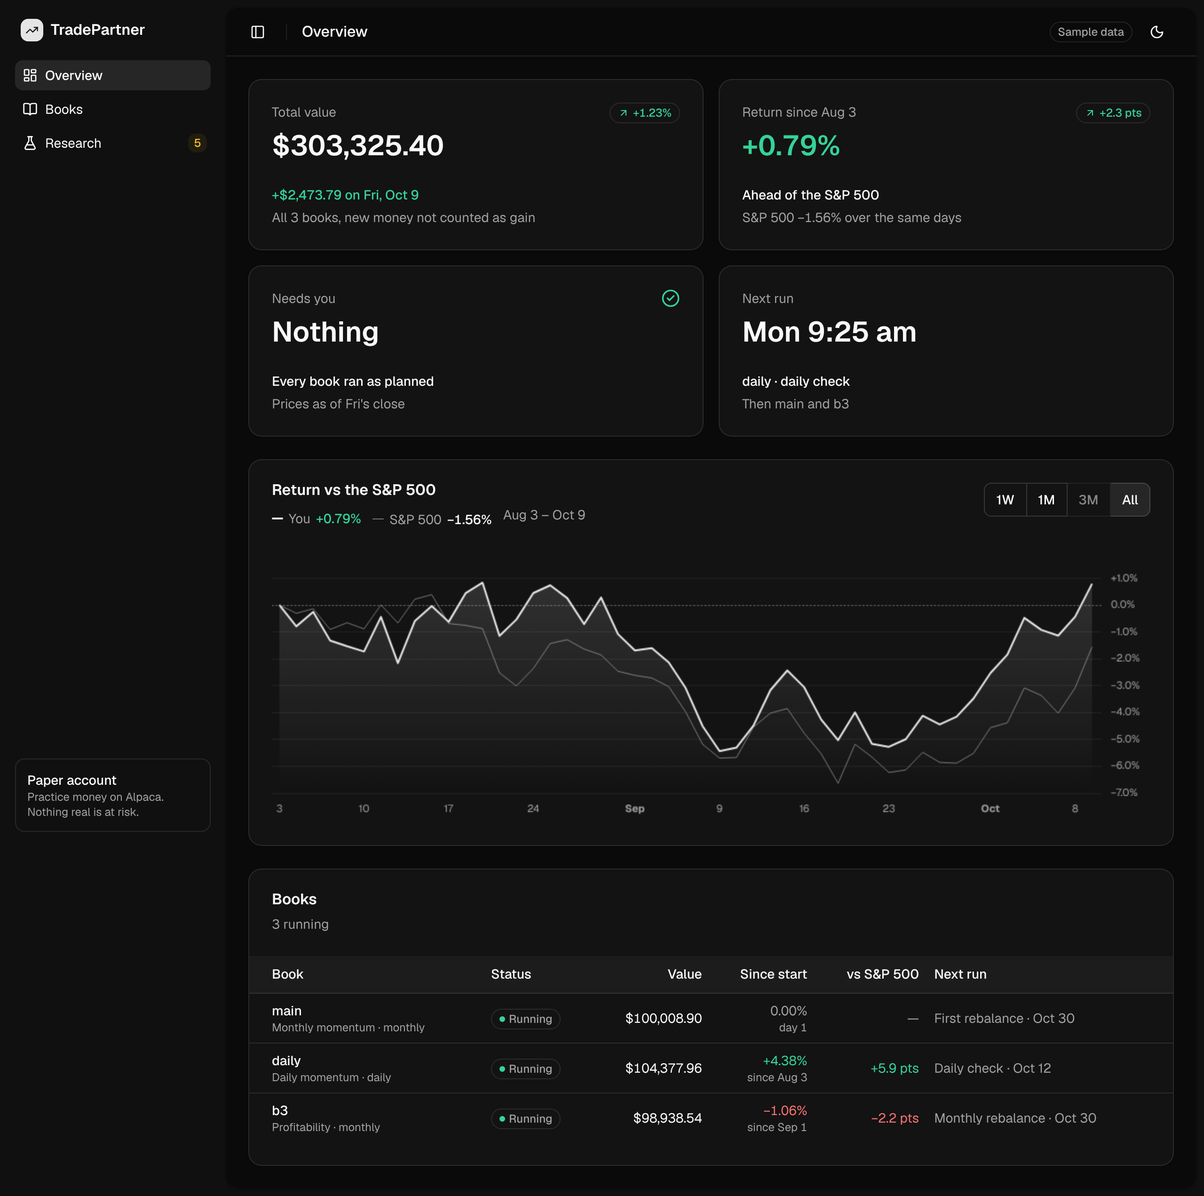
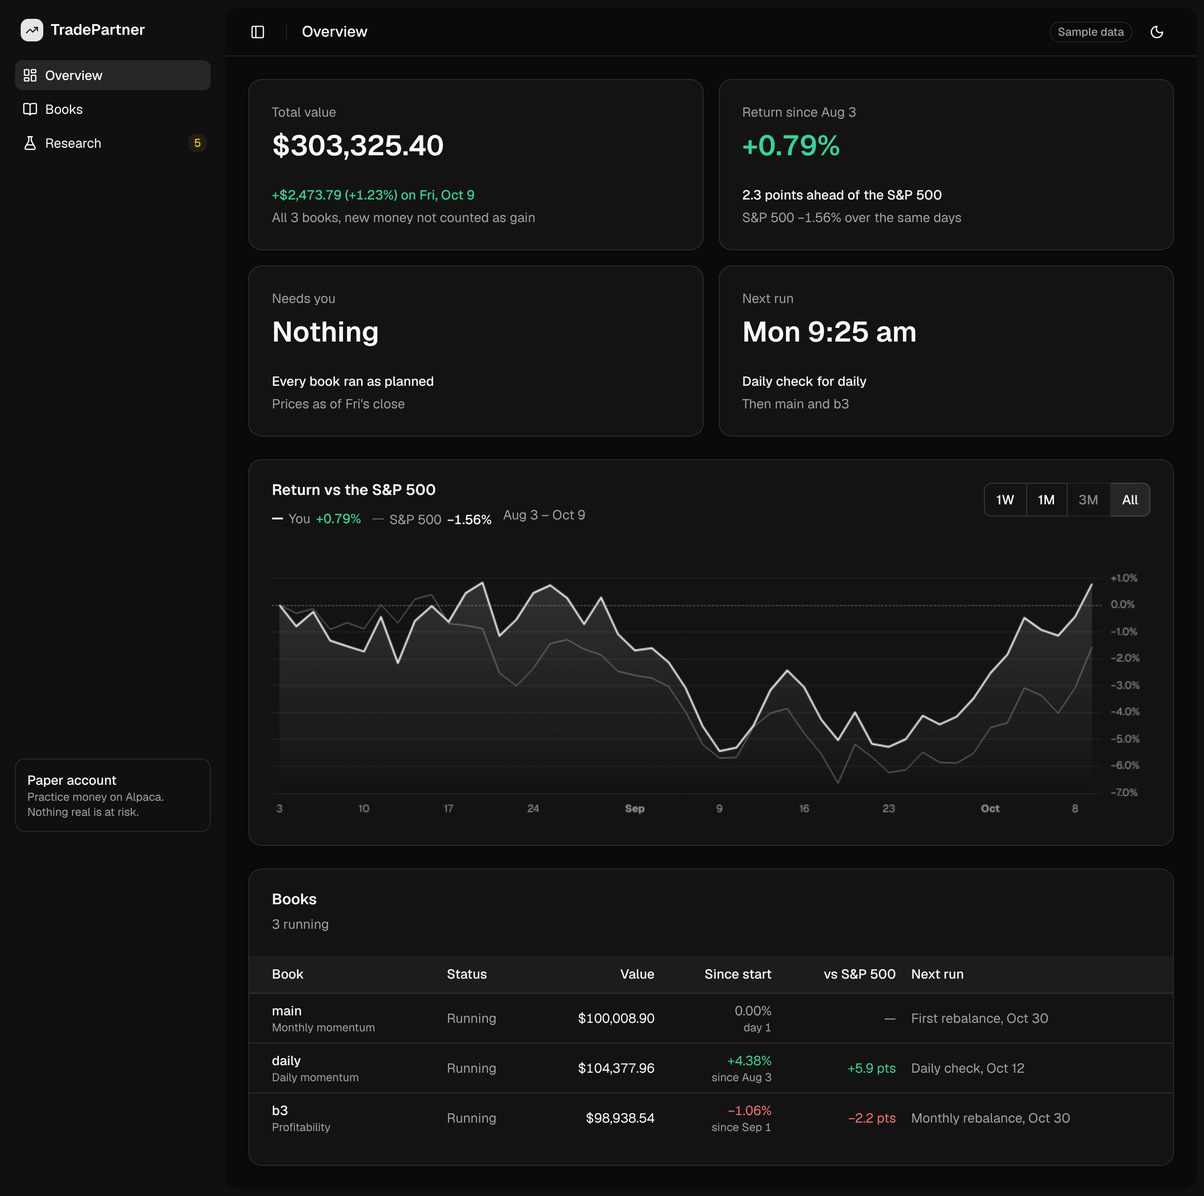
spike(ui): say it once, and words instead of colour bars
Waiting items state the action once (no code badge, no repeated next step);
evidence and luck are words with counts; idea codes appear once as a
reference; Overview cards drop badges and icons that repeated their text.
Both rules added to the AI-tells checklist.

Claude-Session: https://claude.ai/code/session_01QfXTiBii75XidXzH3WFxUi

diff --git a/web/src/screens/Research.tsx b/web/src/screens/Research.tsx
@@ -7,7 +7,6 @@ import { cn } from "@/lib/utils";
 import { Badge } from "@/components/ui/badge";
 import { Button } from "@/components/ui/button";
 import { Card, CardAction, CardContent, CardDescription, CardHeader, CardTitle } from "@/components/ui/card";
-import { Progress } from "@/components/ui/progress";
 import { Separator } from "@/components/ui/separator";
 import { Sheet, SheetContent, SheetDescription, SheetHeader, SheetTitle } from "@/components/ui/sheet";
 import { Table, TableBody, TableCell, TableHead, TableHeader, TableRow } from "@/components/ui/table";
@@ -44,29 +43,31 @@ export function Research({ data }: { data: AppData }) {
         <Card className="shadow-xs">
           <CardHeader>
             <CardTitle>Waiting on you</CardTitle>
-            <CardDescription>Only you can do these. Each one unblocks something.</CardDescription>
-            <CardAction><Badge variant="outline" className="text-attention">{r.waiting.length}</Badge></CardAction>
+            <CardAction><span className="text-attention text-sm font-medium">{r.waiting.length}</span></CardAction>
           </CardHeader>
           <CardContent className="px-0">
             <ul className="divide-y border-t">
               {r.waiting.map((w) => {
                 const Icon = KIND_ICON[w.kind];
                 const idea = byId(w.idea_id);
-                return (
-                  <li key={w.id} className="flex items-start gap-3 px-4 py-4 sm:px-6">
-                    <span className="bg-muted text-muted-foreground mt-0.5 hidden size-8 shrink-0 place-items-center rounded-md sm:grid"><Icon className="size-4" /></span>
+                const body = (
+                  <>
+                    <Icon className="text-muted-foreground mt-0.5 size-4 shrink-0" />
                     <div className="min-w-0 flex-1">
-                      <div className="flex flex-wrap items-center gap-2">
-                        <p className="font-medium">{w.title}</p>
-                        {idea && <Badge variant="secondary" className="font-mono">{idea.code}</Badge>}
-                      </div>
-                      <p className="text-muted-foreground mt-1 text-sm">{w.why}</p>
-                      <p className="text-muted-foreground mt-1 text-xs">Next step: <span className="text-foreground">{w.step}</span> · {w.effort}</p>
+                      <p className="font-medium">{w.title}</p>
+                      <p className="text-muted-foreground mt-0.5 text-sm">{w.why}</p>
+                      <p className="text-muted-foreground mt-1 text-xs sm:hidden">{w.effort}</p>
                     </div>
-                    {idea && (
-                      <Button variant="ghost" size="sm" className="shrink-0 max-sm:size-9 max-sm:px-0" aria-label={`Open ${idea.name}`} onClick={() => setOpen(idea)}>
-                        <span className="max-sm:sr-only">Open</span> <ChevronRight />
-                      </Button>
+                    <span className="text-muted-foreground hidden shrink-0 text-xs whitespace-nowrap sm:inline">{w.effort}</span>
+                    {idea && <ChevronRight className="text-muted-foreground mt-0.5 size-4 shrink-0" />}
+                  </>
+                );
+                return (
+                  <li key={w.id}>
+                    {idea ? (
+                      <button onClick={() => setOpen(idea)} className="hover:bg-accent/40 focus-visible:ring-ring/50 flex w-full items-start gap-3 px-4 py-3.5 text-left outline-none focus-visible:ring-[3px] sm:px-6">{body}</button>
+                    ) : (
+                      <div className="flex items-start gap-3 px-4 py-3.5 sm:px-6">{body}</div>
                     )}
                   </li>
                 );
@@ -94,10 +95,10 @@ export function Research({ data }: { data: AppData }) {
                   <div className="flex items-baseline gap-2">
                     <h2 className="text-sm font-medium">{s.label}</h2>
                     <span className="text-muted-foreground text-sm">{ideas.length}</span>
-                    <span className="text-muted-foreground hidden text-sm sm:inline">· {s.hint}</span>
+                    <span className="text-muted-foreground ml-2 hidden text-sm sm:inline">{s.hint}</span>
                   </div>
                   <div className="grid grid-cols-1 gap-3 @3xl/main:grid-cols-2 @6xl/main:grid-cols-3">
-                    {ideas.map((i) => <IdeaCard key={i.id} idea={i} onOpen={() => setOpen(i)} />)}
+                    {ideas.map((i) => <IdeaCard key={i.id} idea={i} waiting={r.waiting.some((w) => w.idea_id === i.id)} onOpen={() => setOpen(i)} />)}
                   </div>
                 </section>
               );
@@ -117,7 +118,7 @@ export function Research({ data }: { data: AppData }) {
                       <TableHead className="pl-6">Idea</TableHead>
                       <TableHead className="hidden md:table-cell">Window</TableHead>
                       <TableHead className="text-right">vs S&amp;P / yr</TableHead>
-                      <TableHead className="w-48">Luck check</TableHead>
+                      <TableHead>Luck check</TableHead>
                       <TableHead className="hidden text-right sm:table-cell">Tries</TableHead>
                       <TableHead className="hidden pr-6 lg:table-cell">Exam</TableHead>
                     </TableRow>
@@ -126,7 +127,7 @@ export function Research({ data }: { data: AppData }) {
                     {tested.map((i) => (
                       <TableRow key={i.id} className="cursor-pointer" onClick={() => setOpen(i)}>
                         <TableCell className="pl-6">
-                          <span className="font-medium">{i.name}</span> <span className="text-muted-foreground font-mono text-xs">{i.code}</span>
+                          <span className="font-medium">{i.name}</span>
                         </TableCell>
                         <TableCell className="text-muted-foreground hidden md:table-cell">{i.result!.window}</TableCell>
                         <TableCell className={cn("num text-right", i.result!.vs_spy >= 0 ? "text-gain" : "text-loss")}>
@@ -187,47 +188,41 @@ export function Research({ data }: { data: AppData }) {
   );
 }
 
-function stageBadge(stage: Stage) {
-  const s = STAGES.find((x) => x.key === stage)!;
-  const cls = stage === "on_paper" ? "text-gain" : stage === "ready" ? "text-attention" : "text-muted-foreground";
-  return <Badge variant="outline" className={cls}>{s.label}</Badge>;
+/** Evidence in words: a verdict, then the counts behind it. */
+function evidenceVerdict(e: NonNullable<Idea["evidence"]>) {
+  const known = e.for + e.mixed + e.against;
+  if (!known) return { text: "Not enough evidence yet", cls: "text-muted-foreground" };
+  if (e.for > e.against && e.for >= e.mixed) return { text: "Mostly supported", cls: "text-gain" };
+  if (e.against > e.for && e.against >= e.mixed) return { text: "Mostly against", cls: "text-loss" };
+  return { text: "Mixed", cls: "text-attention" };
 }
 
 function Evidence({ e }: { e: NonNullable<Idea["evidence"]> }) {
-  const total = e.for + e.mixed + e.against + (e.untested ?? 0) || 1;
-  const seg = (n: number, cls: string) => n > 0 && <span className={cls} style={{ width: `${(n / total) * 100}%` }} />;
+  const v = evidenceVerdict(e);
+  const n = e.for + e.mixed + e.against;
+  // One kind of study: just the count. Several kinds: the split.
+  const parts = [e.for && `${e.for} for`, e.mixed && `${e.mixed} mixed`, e.against && `${e.against} against`].filter(Boolean);
+  const detail = !n ? "" : parts.length === 1 ? `${n} ${n === 1 ? "study" : "studies"}` : `${n} studies: ${parts.join(", ")}`;
   return (
-    <div className="flex flex-col gap-1.5">
-      <div className="bg-muted flex h-1.5 w-full gap-0.5 overflow-hidden rounded-full" aria-hidden>
-        {seg(e.for, "bg-gain")}{seg(e.mixed, "bg-attention")}{seg(e.against, "bg-loss")}{seg(e.untested ?? 0, "bg-muted-foreground/40")}
-      </div>
-      <p className="text-muted-foreground text-xs">
-        {e.for} for · {e.mixed} mixed · {e.against} against{e.untested ? ` · ${e.untested} untested` : ""}
-      </p>
-    </div>
+    <p className="text-sm">
+      <span className={cn("font-medium", v.cls)}>{v.text}</span>
+      {detail && <span className="text-muted-foreground"> ({detail})</span>}
+    </p>
   );
 }
 
-function IdeaCard({ idea, onOpen }: { idea: Idea; onOpen: () => void }) {
+function IdeaCard({ idea, waiting, onOpen }: { idea: Idea; waiting: boolean; onOpen: () => void }) {
+  const exam = idea.exam?.kind === "paper" && idea.exam.of ? `Exam ${idea.exam.done} of ${idea.exam.of} ${idea.exam.unit}` : null;
   return (
-    <button onClick={onOpen} className="bg-card hover:bg-accent/40 focus-visible:ring-ring/50 flex flex-col gap-3 rounded-xl border p-4 text-left shadow-xs transition-colors outline-none focus-visible:ring-[3px]">
-      <div className="flex items-center gap-2">
-        <span className="font-medium">{idea.name}</span>
-        <Badge variant="secondary" className="font-mono">{idea.code}</Badge>
-        {idea.cost !== "—" && <span className="text-muted-foreground ml-auto text-xs" title="Effort to test">effort {idea.cost}</span>}
-      </div>
+    <button onClick={onOpen} className="bg-card hover:bg-accent/40 focus-visible:ring-ring/50 flex flex-col gap-2 rounded-xl border p-4 text-left transition-colors outline-none focus-visible:ring-[3px]">
+      <p className="font-medium">{idea.name}</p>
       <p className="text-muted-foreground line-clamp-2 text-sm">{idea.idea}</p>
       {idea.evidence && <Evidence e={idea.evidence} />}
-      {idea.exam?.kind === "paper" && idea.exam.of ? (
-        <div className="flex flex-col gap-1.5">
-          <Progress value={(idea.exam.done! / idea.exam.of) * 100} className="h-1.5" />
-          <p className="text-muted-foreground text-xs num">Exam: {idea.exam.done} of {idea.exam.of} {idea.exam.unit}</p>
-        </div>
-      ) : null}
-      <p className="text-xs">
-        {idea.blocked_by ? <span className="text-muted-foreground"><Lock className="mr-1 inline size-3" />{idea.blocked_by.join(" · ")}</span>
+      <p className="text-sm">
+        {waiting ? <span className="text-attention font-medium">Waiting on you</span>
+          : idea.blocked_by ? <span className="text-muted-foreground">Blocked: {idea.blocked_by[0]}{idea.blocked_by.length > 1 && ` and ${idea.blocked_by.length - 1} more`}</span>
           : idea.parked ? <span className="text-muted-foreground">{idea.parked}</span>
-          : <span>{idea.next}</span>}
+          : <span className="text-muted-foreground num">{exam ?? idea.next}</span>}
       </p>
     </button>
   );
@@ -236,12 +231,10 @@ function IdeaCard({ idea, onOpen }: { idea: Idea; onOpen: () => void }) {
 function Luck({ v, sample }: { v: number; sample?: boolean }) {
   const label = v >= 0.95 ? "likely real" : v >= 0.5 ? "could be luck" : "probably luck";
   return (
-    <div className="flex items-center gap-2" title="Chance the edge is real, after counting every version tried in this family (deflated Sharpe)">
-      <Progress value={v * 100} className="h-1.5 w-16" />
-      <span className="num text-sm">{Math.round(v * 100)}%</span>
-      <span className="text-muted-foreground hidden text-xs xl:inline">{label}</span>
+    <span title="Chance the edge is real, after counting every version tried in this family (deflated Sharpe)">
+      <span className="num">{Math.round(v * 100)}%</span> <span className="text-muted-foreground">{label}</span>
       {sample && <SampleMark />}
-    </div>
+    </span>
   );
 }
 
@@ -256,7 +249,6 @@ function FamilyCard({ family: f }: { family: Family }) {
   return (
     <Card className="shadow-xs">
       <CardHeader>
-        <CardDescription>Family</CardDescription>
         <CardTitle>{f.name}</CardTitle>
       </CardHeader>
       <CardContent className="flex flex-col gap-4 text-sm">
@@ -272,12 +264,9 @@ function FamilyCard({ family: f }: { family: Family }) {
           </span>
         </div>
         <Separator />
-        <div className="flex flex-col gap-2">
-          <div className="flex items-baseline justify-between">
-            <span className="text-muted-foreground">Promotions to paper</span>
-            <span className="num font-medium">{f.promotions[0]} of {f.promotions[1]}</span>
-          </div>
-          <Progress value={(f.promotions[0] / f.promotions[1]) * 100} className="h-1.5" />
+        <div className="flex items-baseline justify-between">
+          <span className="text-muted-foreground">Promotions to paper</span>
+          <span className="num font-medium">{f.promotions[0]} of {f.promotions[1]} used</span>
         </div>
         {f.luck_bar_note && <p className="text-muted-foreground text-xs">{f.luck_bar_note}</p>}
       </CardContent>
@@ -320,26 +309,23 @@ function IdeaSheet({ idea, data, onClose }: { idea: Idea | null; data: AppData; 
       <SheetContent className="w-full overflow-y-auto sm:max-w-lg">
         {idea && (
           <>
-            <SheetHeader className="gap-2 border-b">
-              <div className="flex items-center gap-2">
-                <Badge variant="secondary" className="font-mono">{idea.code}</Badge>
-                {stageBadge(idea.stage)}
-              </div>
+            <SheetHeader className="gap-1 border-b">
+              <p className="text-muted-foreground text-sm">{STAGES.find((x) => x.key === idea.stage)?.label}</p>
               <SheetTitle className="text-lg">{idea.name}</SheetTitle>
               <SheetDescription>{idea.idea}</SheetDescription>
             </SheetHeader>
             <div className="flex flex-col gap-6 px-4 pb-8">
               {waiting.map((w) => (
-                <div key={w.id} className="border-attention/40 bg-attention-soft rounded-lg border p-3 text-sm">
-                  <p className="text-attention font-medium">Waiting on you</p>
-                  <p className="mt-1">{w.step}</p>
+                <div key={w.id} className="bg-attention-soft rounded-lg p-3 text-sm">
+                  <p className="text-attention font-medium">Waiting on you: {w.step.charAt(0).toLowerCase() + w.step.slice(1)}</p>
+                  <p className="text-muted-foreground mt-1">{w.effort}</p>
                 </div>
               ))}
 
               {idea.evidence && (
-                <Block title="Why it might work" icon={CircleHelp}>
+                <Block title="Published evidence" icon={CircleHelp}>
                   <Evidence e={idea.evidence} />
-                  <p className="text-muted-foreground mt-2">{idea.evidence.note}</p>
+                  <p className="text-muted-foreground mt-1">{idea.evidence.note}</p>
                 </Block>
               )}
 
@@ -370,10 +356,9 @@ function IdeaSheet({ idea, data, onClose }: { idea: Idea | null; data: AppData; 
               {idea.exam && (
                 <Block title="The exam" icon={Lock}>
                   {idea.exam.kind === "paper" ? (
-                    <div className="flex flex-col gap-2">
-                      <p>{idea.exam.label}: <span className="num">{idea.exam.done} of {idea.exam.of}</span> {idea.exam.unit}</p>
-                      <Progress value={(idea.exam.done! / idea.exam.of!) * 100} className="h-1.5" />
-                      <p className="text-muted-foreground text-xs">A forward exam: the strategy trades on paper with data that didn't exist when it was designed.</p>
+                    <div className="flex flex-col gap-1">
+                      <p>{idea.exam.label}: <span className="num">{idea.exam.done} of {idea.exam.of}</span> {idea.exam.unit} done</p>
+                      <p className="text-muted-foreground text-xs">The strategy trades on paper with data that didn't exist when it was designed.</p>
                     </div>
                   ) : (
                     <p>{idea.exam.label}: <span className="font-medium">{idea.exam.status}</span>{idea.exam.note && <span className="text-muted-foreground"> · {idea.exam.note}</span>}</p>
@@ -381,7 +366,7 @@ function IdeaSheet({ idea, data, onClose }: { idea: Idea | null; data: AppData; 
                 </Block>
               )}
 
-              {(idea.blocked_by || idea.parked || idea.next) && (
+              {(idea.blocked_by || idea.parked || (idea.next && !waiting.length)) && (
                 <Block title={idea.blocked_by ? "Blocked by" : idea.parked ? "Parked because" : "What's next"} icon={ChevronRight}>
                   {idea.blocked_by ? (
                     <ul className="list-disc pl-5">{idea.blocked_by.map((b) => <li key={b}>{b}</li>)}</ul>
@@ -390,6 +375,7 @@ function IdeaSheet({ idea, data, onClose }: { idea: Idea | null; data: AppData; 
                   )}
                 </Block>
               )}
+              <p className="text-muted-foreground border-t pt-4 text-xs">{idea.code} in the backlog, {idea.family} family</p>
             </div>
           </>
         )}

diff --git a/web/src/screens/Overview.tsx b/web/src/screens/Overview.tsx
@@ -1,29 +1,17 @@
 import { useMemo, useState } from "react";
-import { AlertTriangle, ArrowDownRight, ArrowUpRight, CircleCheck, Pause } from "lucide-react";
+import { AlertTriangle, Pause } from "lucide-react";
 import type { AppData, Book } from "@/lib/types";
 import { RANGES, comparison, lastChange, rangeStart, type RangeKey } from "@/lib/data";
 import { clock, money, pct, pts, shortDate, signedMoney, tone, weekdayDate } from "@/lib/format";
 import { cn } from "@/lib/utils";
 import { ReturnChart } from "@/components/ReturnChart";
 import { Alert, AlertDescription, AlertTitle } from "@/components/ui/alert";
-import { Badge } from "@/components/ui/badge";
 import { Button } from "@/components/ui/button";
 import { Card, CardAction, CardContent, CardDescription, CardFooter, CardHeader, CardTitle } from "@/components/ui/card";
 import { Table, TableBody, TableCell, TableHead, TableHeader, TableRow } from "@/components/ui/table";
 import { ToggleGroup, ToggleGroupItem } from "@/components/ui/toggle-group";
 
 const toneText = { gain: "text-gain", loss: "text-loss", flat: "text-muted-foreground" } as const;
-
-function Delta({ v, children }: { v: number; children: React.ReactNode }) {
-  const t = tone(v);
-  const Icon = t === "loss" ? ArrowDownRight : ArrowUpRight;
-  return (
-    <Badge variant="outline" className={cn("num", toneText[t])}>
-      {t !== "flat" && <Icon />}
-      {children}
-    </Badge>
-  );
-}
 
 /** Screen 1, "How am I doing?". shadcn dashboard pattern: summary cards, one chart, one table. */
 export function Overview({ data }: { data: AppData }) {
@@ -78,10 +66,9 @@ export function Overview({ data }: { data: AppData }) {
           <CardHeader>
             <CardDescription>Total value</CardDescription>
             <CardTitle className="num text-2xl font-semibold @[250px]/card:text-3xl">{money(total)}</CardTitle>
-            {today && <CardAction><Delta v={today.rel}>{pct(today.rel)}</Delta></CardAction>}
           </CardHeader>
           <CardFooter className="flex-col items-start gap-1 text-sm">
-            {today && <div className={cn("num font-medium", toneText[tone(today.rel)])}>{signedMoney(today.abs)} on {weekdayDate(lastDate)}</div>}
+            {today && <div className={cn("num font-medium", toneText[tone(today.rel)])}>{signedMoney(today.abs)} ({pct(today.rel)}) on {weekdayDate(lastDate)}</div>}
             <div className="text-muted-foreground">All {data.books.length} books, new money not counted as gain</div>
           </CardFooter>
         </Card>
@@ -90,10 +77,9 @@ export function Overview({ data }: { data: AppData }) {
           <CardHeader>
             <CardDescription>Return since {shortDate(own[0].date)}</CardDescription>
             <CardTitle className={cn("num text-2xl font-semibold @[250px]/card:text-3xl", toneText[tone(all.youRet)])}>{pct(all.youRet)}</CardTitle>
-            <CardAction><Delta v={gapAll}>{gapAll >= 0 ? "+" : "−"}{pts(gapAll)}</Delta></CardAction>
           </CardHeader>
           <CardFooter className="flex-col items-start gap-1 text-sm">
-            <div className="font-medium">{tone(gapAll) === "flat" ? "Level with" : gapAll > 0 ? "Ahead of" : "Behind"} the S&amp;P 500</div>
+            <div className="font-medium">{tone(gapAll) === "flat" ? "Level with the S&P 500" : `${pts(gapAll).replace(" pts", " points")} ${gapAll > 0 ? "ahead of" : "behind"} the S&P 500`}</div>
             <div className="text-muted-foreground num">S&amp;P 500 {pct(all.spyRet)} over the same days</div>
           </CardFooter>
         </Card>
@@ -104,9 +90,6 @@ export function Overview({ data }: { data: AppData }) {
             <CardTitle className={cn("text-2xl font-semibold @[250px]/card:text-3xl", waiting && "text-attention")}>
               {waiting ? `${waiting} ${waiting === 1 ? "thing" : "things"}` : "Nothing"}
             </CardTitle>
-            <CardAction>
-              {waiting ? <AlertTriangle className="size-5 text-attention" /> : <CircleCheck className="size-5 text-gain" />}
-            </CardAction>
           </CardHeader>
           <CardFooter className="flex-col items-start gap-1 text-sm">
             <div className="font-medium">{waiting ? data.alerts[0].title : "Every book ran as planned"}</div>
@@ -122,7 +105,7 @@ export function Overview({ data }: { data: AppData }) {
             </CardTitle>
           </CardHeader>
           <CardFooter className="flex-col items-start gap-1 text-sm">
-            {next && <div className="font-medium">{next.name} · {(next.next_run.what ?? "run").toLowerCase()}</div>}
+            {next && <div className="font-medium">{next.next_run.what} for {next.name}</div>}
             {running[1] && <div className="text-muted-foreground">Then {running.slice(1).map((b) => b.name).join(" and ")}</div>}
           </CardFooter>
         </Card>
@@ -198,15 +181,15 @@ function BookRow({ book, data }: { book: Book; data: AppData }) {
     <TableRow className="cursor-pointer" onClick={() => (location.hash = `books/${book.id}`)}>
       <TableCell className="pl-6">
         <a href={`#books/${book.id}`} className="font-medium hover:underline">{book.name}</a>
-        <div className="text-muted-foreground text-xs">{strat?.name} · {book.cadence}</div>
+        <div className="text-muted-foreground text-xs">{strat?.name}</div>
       </TableCell>
       <TableCell className="hidden md:table-cell">
         {stopped ? (
-          <Badge variant="outline" className="text-attention"><Pause />Stopped by you {clock(book.status.at!)}</Badge>
+          <span className="text-attention inline-flex items-center gap-1.5 font-medium"><Pause className="size-3.5" />Stopped by you at {clock(book.status.at!)}</span>
         ) : flagged ? (
-          <Badge variant="outline" className="text-attention"><AlertTriangle />Needs you</Badge>
+          <span className="text-attention inline-flex items-center gap-1.5 font-medium"><AlertTriangle className="size-3.5" />Needs you</span>
         ) : (
-          <Badge variant="outline" className="text-muted-foreground"><span className="size-1.5 rounded-full bg-gain" />Running</Badge>
+          <span className="text-muted-foreground">Running</span>
         )}
       </TableCell>
       <TableCell className="num text-right">{money(book.equity.at(-1)!.value)}</TableCell>
@@ -218,7 +201,7 @@ function BookRow({ book, data }: { book: Book; data: AppData }) {
         {young ? "—" : `${gap >= 0 ? "+" : "−"}${pts(gap)}`}
       </TableCell>
       <TableCell className="text-muted-foreground hidden pr-6 lg:table-cell">
-        {book.next_run.what} · {shortDate(book.next_run.at)}
+        {book.next_run.what}, {shortDate(book.next_run.at)}
       </TableCell>
     </TableRow>
   );

diff --git a/docs/research/ui/ai-tells.md b/docs/research/ui/ai-tells.md
@@ -58,6 +58,10 @@ Ranked by who notices (P0 anyone, P1 a designer/developer, P2 polish). IDs match
 - [ ] **CP5 / CP6** Title Case everywhere; "Get started", "Learn more", "Submit".
 - [ ] A subtitle under every heading ("Only you can do these. Each one unblocks something."): Anthropic's skill counts unnecessary labels above or below content among the commonest tells.
 
+### Owner's rules (from review, 2026-10-10)
+- [ ] **Say it once.** No label repeated in the same block: not the title, a code badge, the first words of the description and a "Next step" line all naming the same thing. Internal codes (B10, H1) appear once, as a reference, never as a badge beside the name. If two lines mean the same, cut one. This goes for "Ahead" next to a "+2.3 pts" badge, an icon next to the word it illustrates, and a subtitle that rewords its heading.
+- [ ] **No coloured bars to decode.** Segmented or multi-colour horizontal bars (evidence splits, progress strips) need a legend to read. Say it in words with the numbers beside it: "Mostly supported (5 studies: 3 for, 2 mixed)", "73% could be luck", "Exam 48 of 63 trading days".
+
 ### Don't over-correct
 - Restraint done on purpose is not "timid". Minimal is fine when it's a decision.
 - Glass, bento grids and mesh backgrounds are over-blamed; the tells people actually recognise are shadcn/Tailwind defaults and the indigo gradient.
